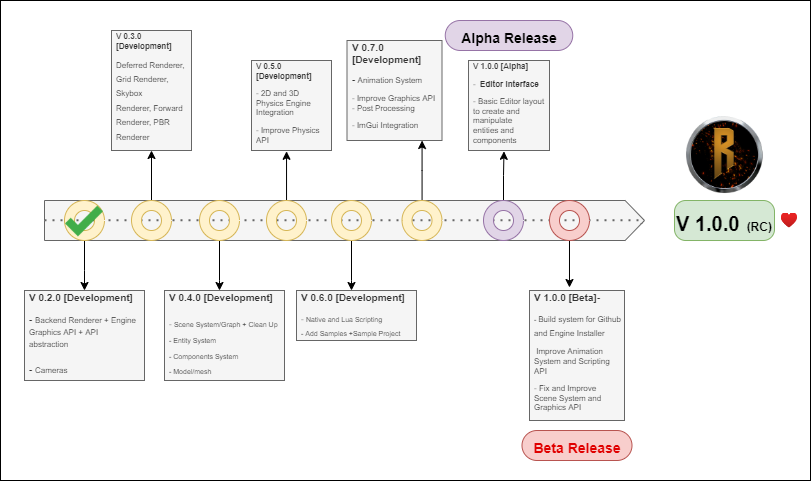
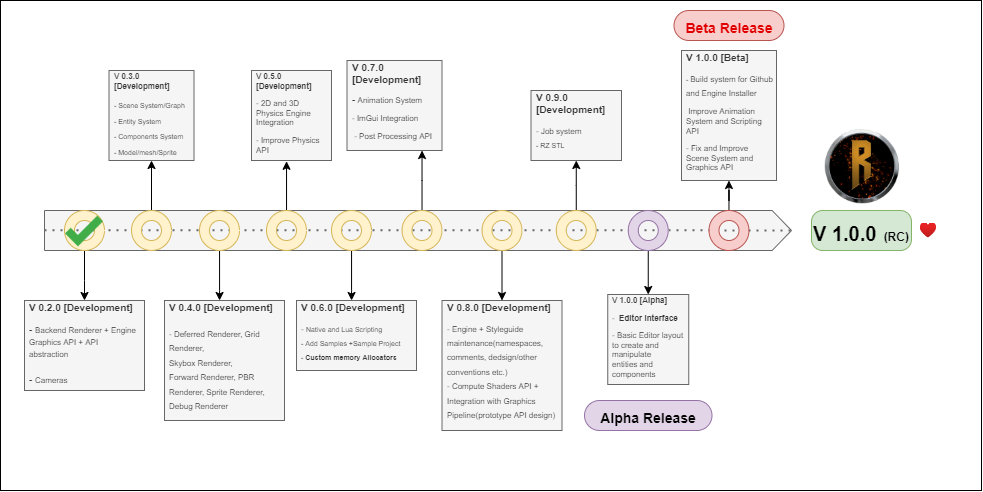
[Docs] Updated RoadMap for V.1.0.0.RC and 2.0 TODO features; Added project ID;

Changed region(s): [[0.0, 0.0, 1.0, 0.9959]]

diff --git a/Engine/src/Razix/Core/RZApplication.h b/Engine/src/Razix/Core/RZApplication.h
@@ -3,6 +3,7 @@
 #include "Razix/Core/RZCore.h"
 #include "Razix/Core/OS/RZWindow.h"
 #include "Razix/Core/RZSmartPointers.h"
+#include "Razix/Core/RZUUIDGenerator.h"
 
 #include "Razix/Events/ApplicationEvent.h"
 #include "Razix/Events/RZKeyEvent.h"
@@ -97,6 +98,7 @@ namespace Razix
         /* Application Serialization */
 
         // Load mechanism for the RZApplication class
+        // TODO: Make this look more neat
         template<class Archive>
         void load(Archive& archive) 
         {
@@ -124,6 +126,11 @@ namespace Razix
             archive(cereal::make_nvp("Height", Height));
             m_WindowProperties.Width = Width;
             m_WindowProperties.Height = Height;
+
+            // Extract the project UUID as as string and convert it back to the RZUUID
+            std::string uuid_string;
+            archive(cereal::make_nvp("Project ID", uuid_string));
+            m_ProjectID = RZUUID::FromStrFactory(uuid_string);
         }
 
         // Save mechanism for the RZApplication class
@@ -133,7 +140,7 @@ namespace Razix
             RAZIX_TRACE("Window Resize override sandbox application! | W : {0}, H : {1}",  m_Window.get()->getWidth(),  m_Window.get()->getHeight());
             archive(cereal::make_nvp("Project Name", m_AppName));
             archive(cereal::make_nvp("Engine Version", Razix::RazixVersion.getVersionString()));
-            archive(cereal::make_nvp("Project Version", 0));
+            archive(cereal::make_nvp("Project ID", m_ProjectID.str()));
             archive(cereal::make_nvp("Render API", (uint32_t)Graphics::RZGraphicsContext::GetRenderAPI()));
             archive(cereal::make_nvp("Width", m_Window.get()->getWidth()));
             archive(cereal::make_nvp("Height",  m_Window.get()->getHeight()));
@@ -153,6 +160,7 @@ namespace Razix
         RZTimestep              m_Timestep;                             /* The timesteps taken to update the application            */
         UniqueRef<RZWindow>     m_Window;                               /* The window that will be used to view graphics            */
         WindowProperties        m_WindowProperties;                     /* The properties of the window to create with              */
+        RZUUID                  m_ProjectID;                            /* Project ID is a UUID to uniquely identify project        */
 
     private:
         /**

diff --git a/Engine/src/Razix/Core/RZUUID.h b/Engine/src/Razix/Core/RZUUID.h
@@ -5,7 +5,7 @@
 namespace Razix {
     
     /**
-     *  Implementation from : Copyright (c) 2018 Xavier "Crashoz" Launey [https://github.com/crashoz/uuid_v4]
+     *  Implementation from : Copyright (c) 2018 Xavier "Crashoz" Launey [https://github.com/crashoz/uuid_v4] MIT license.
      * 
      * "Razix Universally Unique Identifier" or RZUUID. Creates a random V4 style RZUUID as per the format (RFC-4122) described here : https://datatracker.ietf.org/doc/html/rfc4122
      *
@@ -40,7 +40,8 @@ namespace Razix {
      * Thus, the probability to find a duplicate within 103 trillion version-4 UUIDs is one in a billion.
      */
 
-    // TODO: read more about generators, show we persist them(their seeding or would it be fine with using every time the engine/game is fired up) or can it be randomly generated as well
+    // TODO: 1. Tidy up the class as per Razix style guide
+    // TODO: 2. read more about generators, show we persist them(their seeding or would it be fine with using every time the engine/game is fired up) or can it be randomly generated as well
     class RAZIX_API RZUUID
     {
     public: 

diff --git a/Engine/src/Razix/Core/RZApplication.cpp b/Engine/src/Razix/Core/RZApplication.cpp
@@ -98,6 +98,11 @@ namespace Razix
             std::ofstream opAppStream(projectFullPath);
             cereal::JSONOutputArchive defArchive(opAppStream);
             RAZIX_CORE_TRACE("Creating a default Project file...");
+
+            // Assign a UUID for the new project file
+            RZUUIDGenerator<std::mt19937_64> uuidGenerator;
+            m_ProjectID = uuidGenerator.generateUUID();
+
             defArchive(cereal::make_nvp("Razix Application", *s_AppInstance));
         }
 

diff --git a/Sandbox/src/GridTest.cpp b/Sandbox/src/GridTest.cpp
@@ -53,12 +53,6 @@ public:
             std::string s = uuid.str();
             std::cout << "UUID: " << s << std::endl;
         }
-
-        //RZUUID uuid_read(bytes);
-
-        // Test by generating a UUID for project ID, generate it once and test serialization and de-serialization comparison
-
-
     }
 
     ~GridTest() {}
